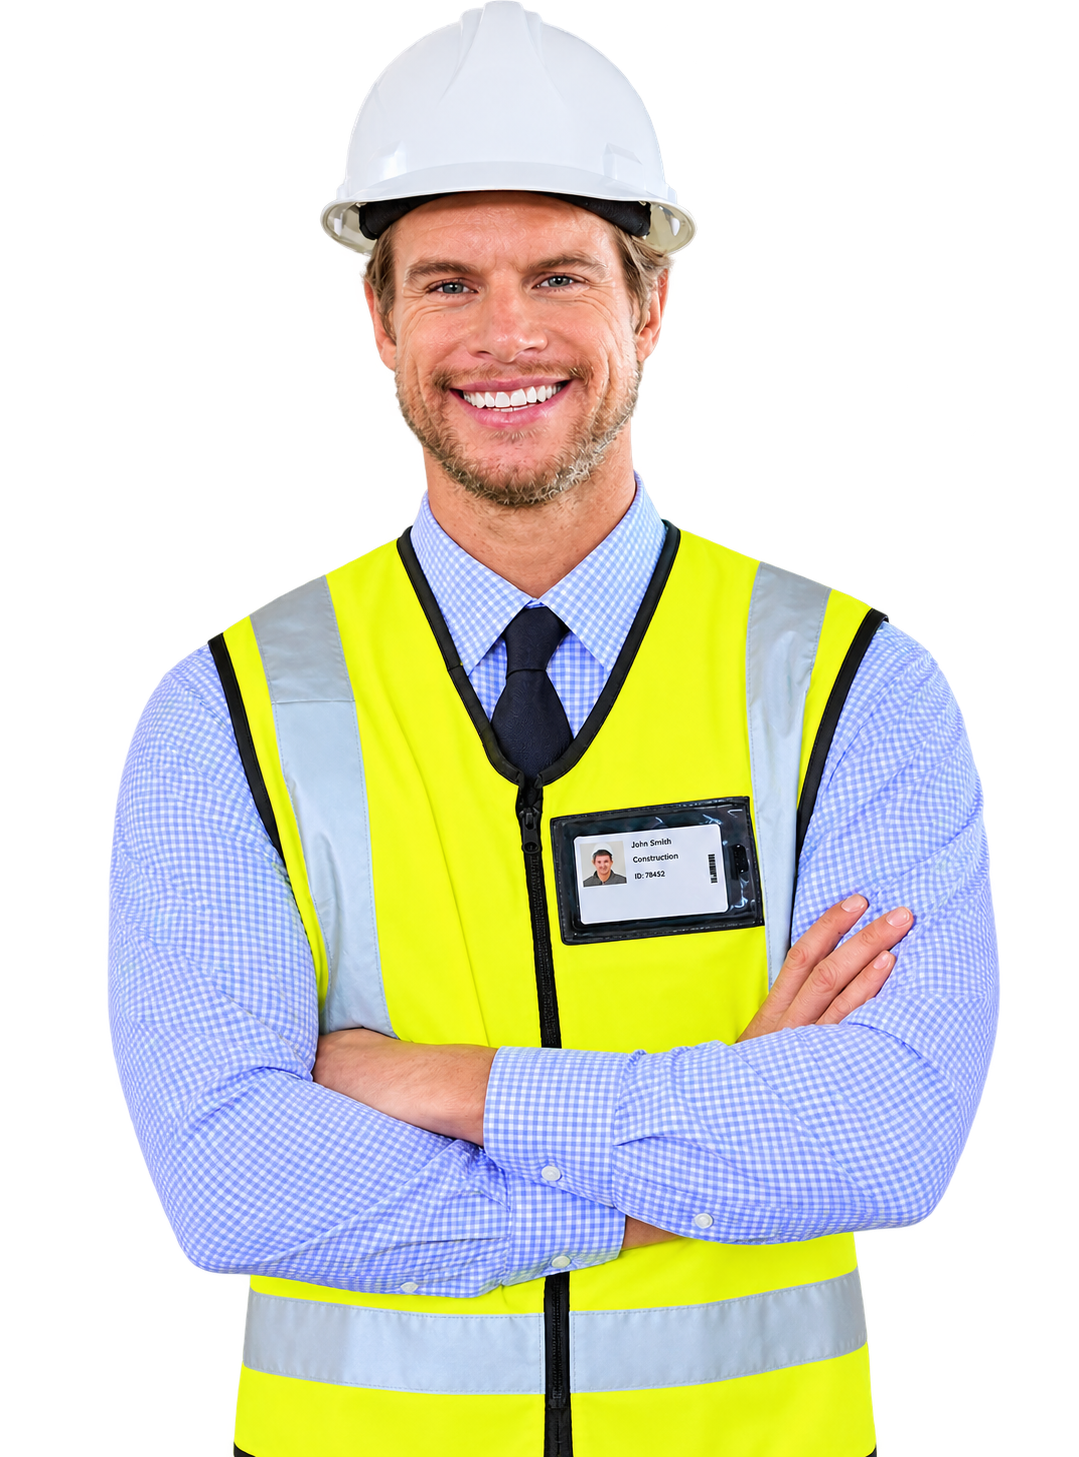
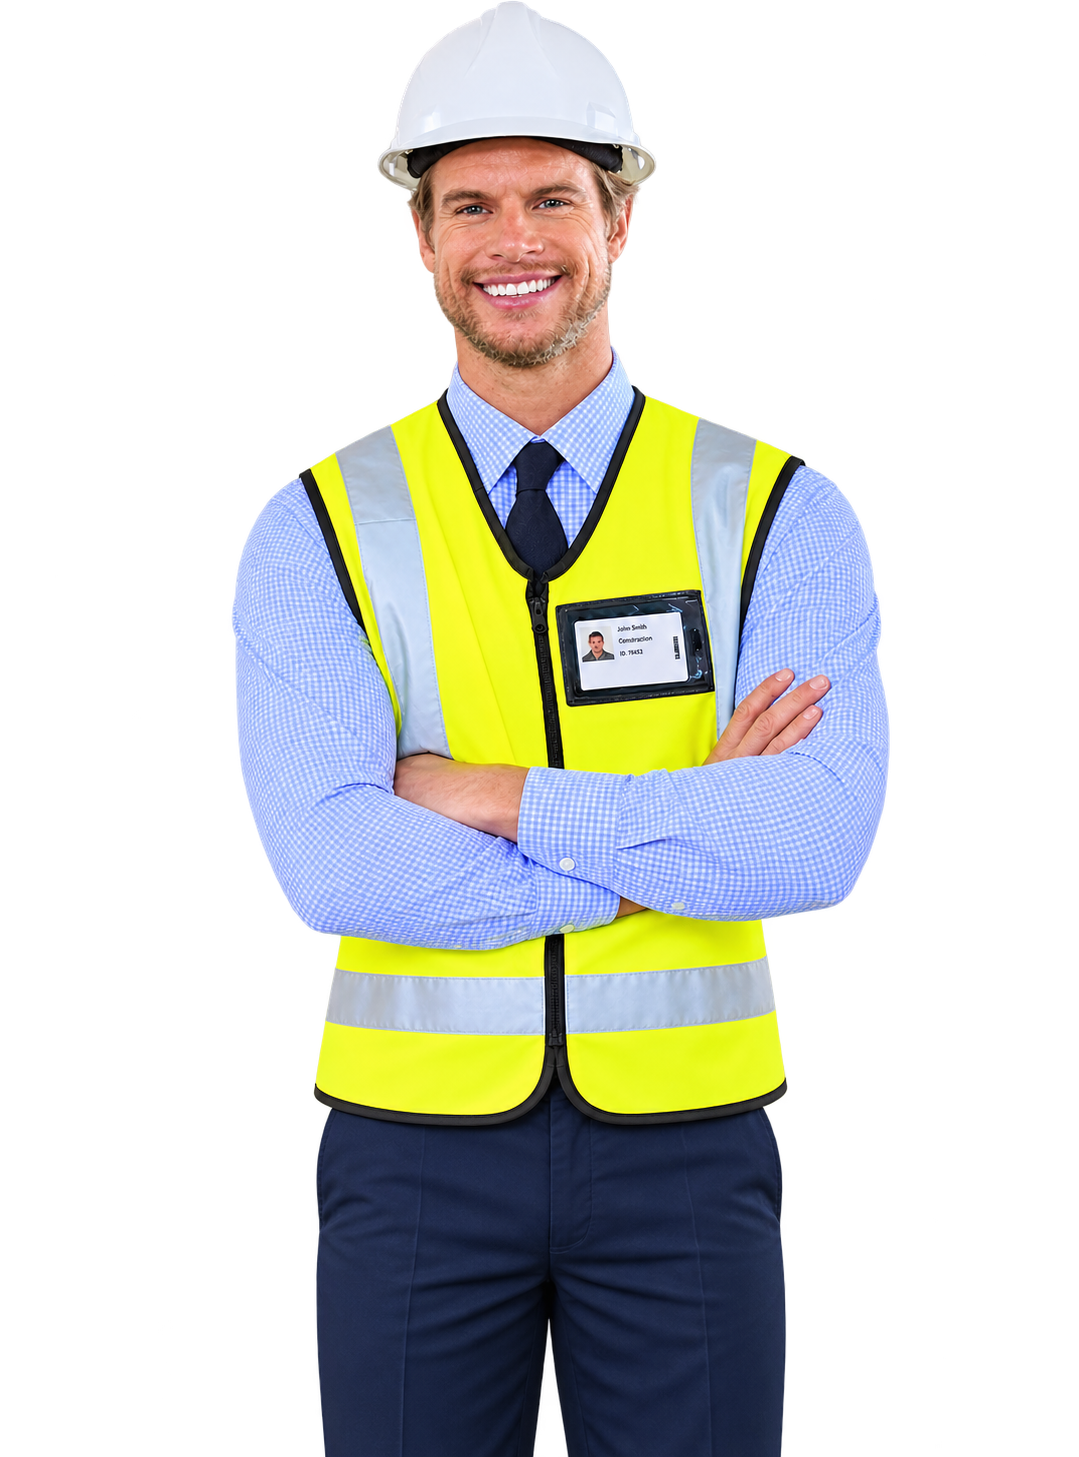
feat(home): update Godman image dimensions and enhance layout for better presentation

diff --git a/src/app/Views/Home/Home.Component.ts b/src/app/Views/Home/Home.Component.ts
@@ -486,11 +486,11 @@ import { DomSanitizer, SafeResourceUrl } from '@angular/platform-browser';
 
           <!-- Columna de ilustración y tarjetas flotantes (Sin desborde lateral en celular) -->
           <div class="relative lg:col-span-6 flex justify-center mt-5 lg:mt-0">
-            <div class="relative z-10 w-full max-w-[300px] sm:max-w-[380px] lg:max-w-[560px] translate-y-6 sm:translate-y-8 lg:translate-y-14">
+            <div class="relative z-10 w-full max-w-[700px] sm:max-w-[900px] lg:max-w-[1200px] translate-y-12 sm:translate-y-16 lg:translate-y-24">
               <img
                 src="img/Godman.png"
                 alt="Operación Ferretería Firmeza"
-                class="animate-slide-in-left block h-auto w-full object-contain drop-shadow-xl sm:drop-shadow-2xl transition duration-500 hover:scale-102"
+                class="animate-slide-in-left block h-auto w-full object-contain drop-shadow-2xl transition duration-500 hover:scale-102"
               />
 
               <!-- Tarjeta flotante 1: Catálogo y materiales (Posicionada sin desbordar el ancho de pantalla) -->
@@ -527,7 +527,7 @@ import { DomSanitizer, SafeResourceUrl } from '@angular/platform-browser';
         </div>
 
         <!-- Widget interactivo: Gráfica de barras de operaciones de inventario -->
-        <div class="relative z-10 mx-auto max-w-6xl px-4 sm:px-6 lg:px-8 mt-10 sm:mt-16 lg:mt-24 pb-16 sm:pb-24">
+        <div class="relative z-10 mx-auto max-w-6xl px-4 sm:px-6 lg:px-8 mt-4 sm:mt-6 lg:mt-8 pb-16 sm:pb-24">
           <div class="overflow-hidden rounded-2xl sm:rounded-3xl border border-white/20 dark:border-white/[0.07] bg-transparent shadow-2xl shadow-blue-950/10 dark:shadow-black/70 backdrop-blur-2xl sm:backdrop-blur-3xl">
 
             <!-- Barra superior del widget -->
